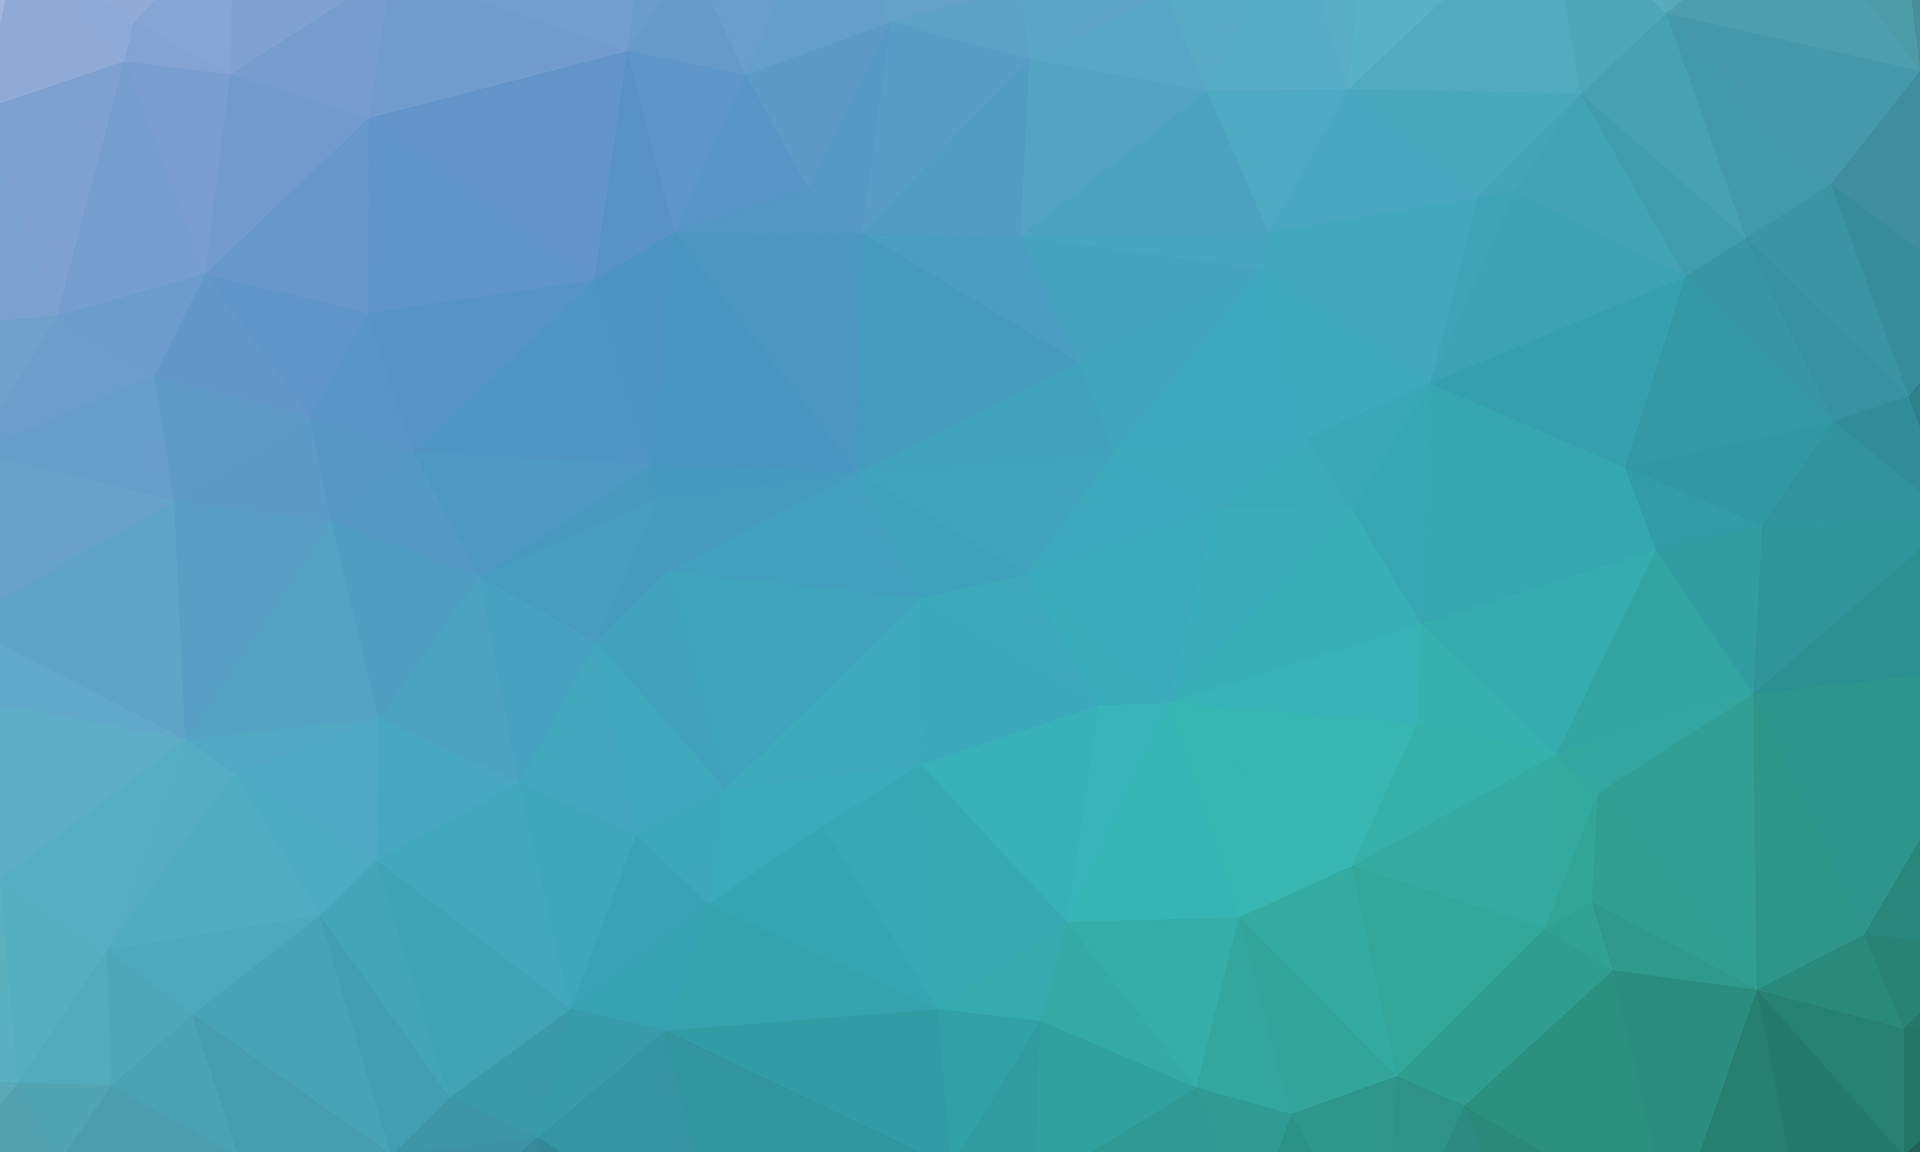
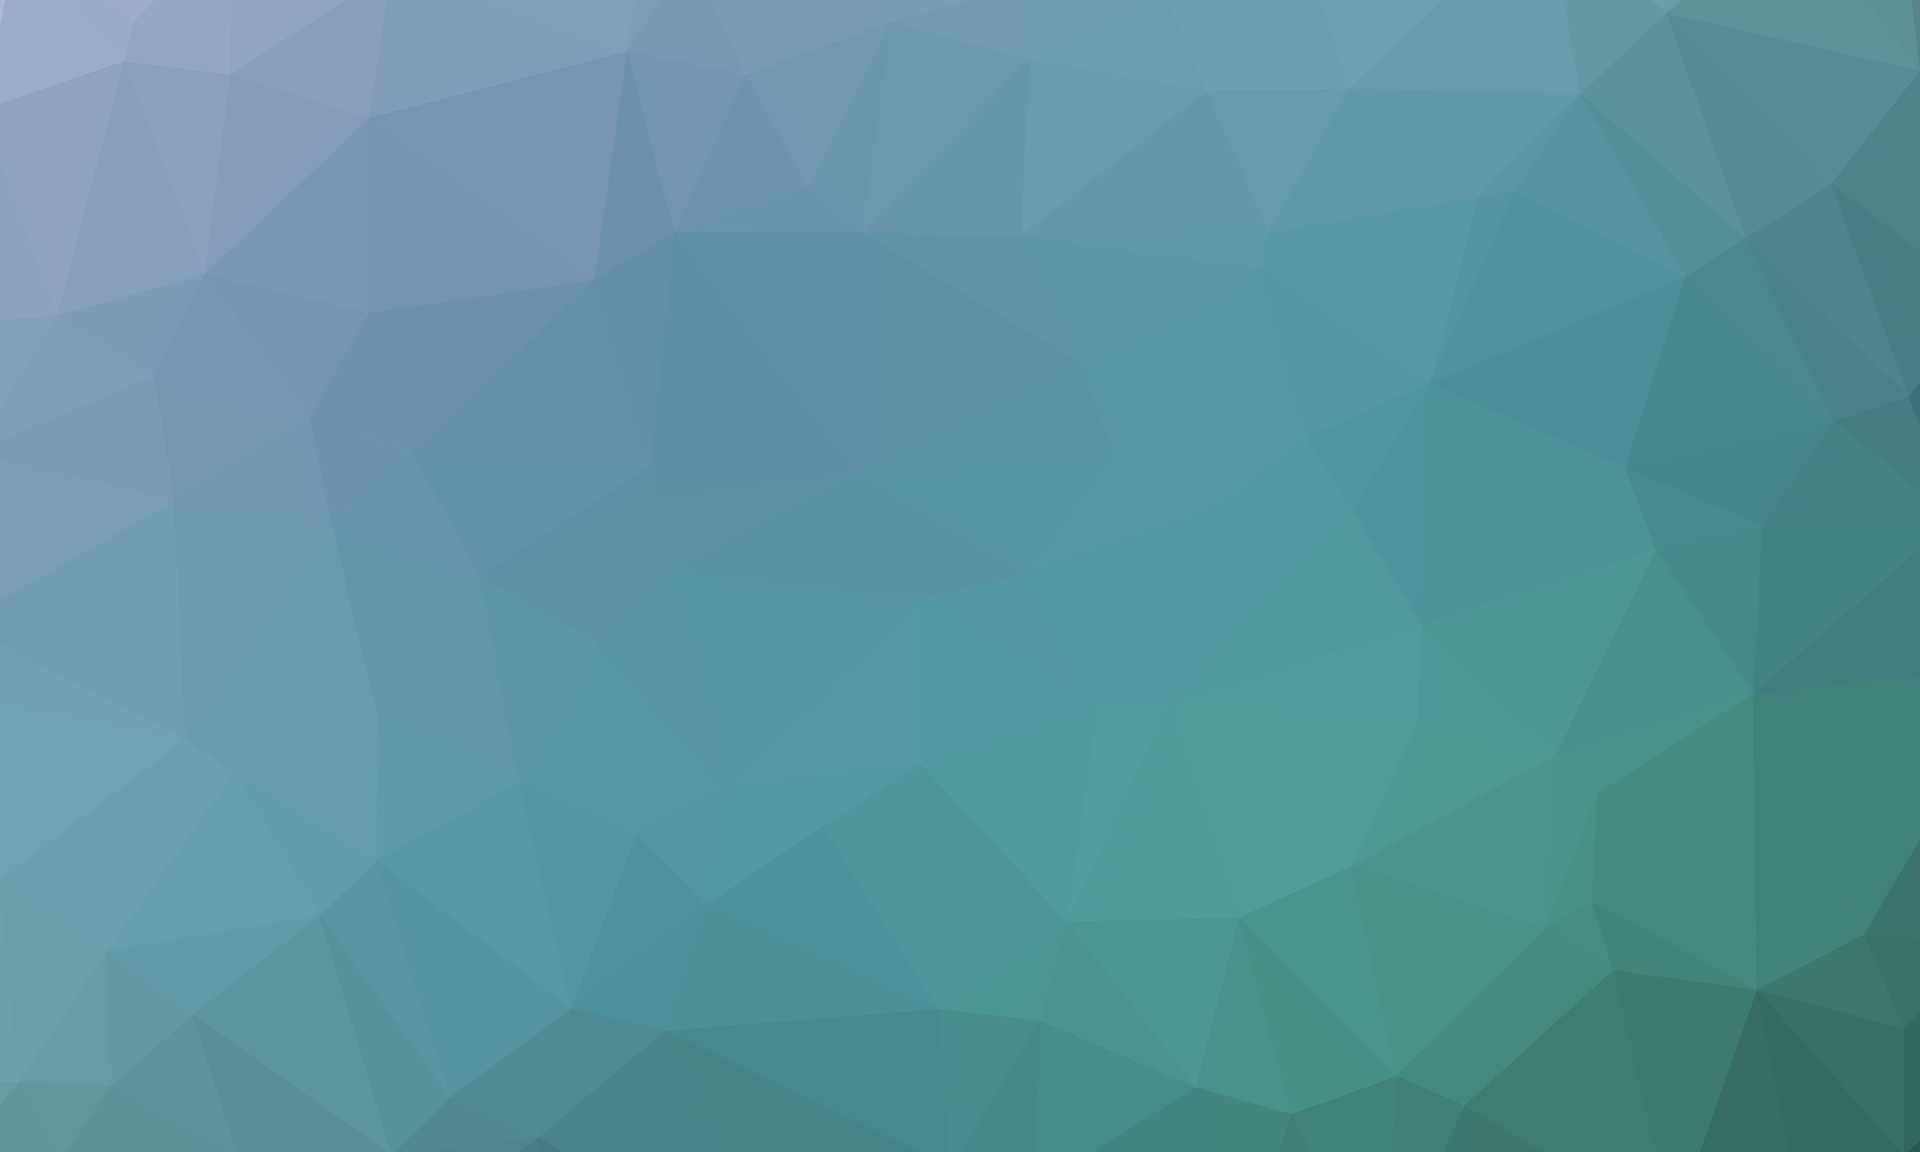
minor changes to apperance

Changed region(s): [[0.375, 0.4375, 0.7188, 0.8125]]

diff --git a/src/components/Plot.js b/src/components/Plot.js
@@ -45,7 +45,7 @@ class Plot extends Component{
     render(){
         return (
             <div className = 'container plot'>
-                <h2><i class="fa fa-area-chart" aria-hidden="true"></i>Plot</h2>
+                <h2><i className="fa fa-area-chart" aria-hidden="true"></i>Plot</h2>
                     <Form
                         onSubmit = {(values) => {
                             this.props.updatePlot(values);
@@ -55,7 +55,7 @@ class Plot extends Component{
                         {formApi => (
                             <form onSubmit =  {formApi.submitForm} >
                                 <div className = 'section properties'>
-                                    <h3><i class="fa fa-sliders" aria-hidden="true"></i>Plot properites</h3>
+                                    <h3><i className="fa fa-sliders" aria-hidden="true"></i>Plot properites</h3>
                                     <div>
                                         <label htmlFor="type">Select type of charts:</label>
                                         <Select
@@ -74,7 +74,7 @@ class Plot extends Component{
                                     </div>
                                 </div>
                                 <div className = 'section buttons'>
-                                    <button className = 'action' type = 'submit'><i class="fa fa-pencil" aria-hidden="true"></i>
+                                    <button className = 'action' type = 'submit'><i className="fa fa-pencil" aria-hidden="true"></i>
 Draw Plot</button>
                                 </div>
                             </form>

diff --git a/src/components/About.js b/src/components/About.js
@@ -51,6 +51,13 @@ const About = function(props) {
                             <a rel="noopener noreferrer" target = '_blank' href="https://www.npmjs.com/package/cubic-spline">cubic-spline</a>
                         </li>
                     </ul>
+                <p>
+                    For plots interpolation, external package was developed. As it was found to be quite useful and universal, it finally was published to npm:
+                </p>
+                   <ul>
+                       <li> <a rel="noopener noreferrer" target = '_blank' href="https://www.npmjs.com/package/2d-bicubic-interpolate">2d-bicubic-interpolate</a></li>
+                   </ul>
+                   
                     
                 
             </div >

diff --git a/src/style/css/App.css b/src/style/css/App.css
@@ -1,5 +1,5 @@
 @import url("https://fonts.googleapis.com/css?family=Maven+Pro");
-@import url("https://fonts.googleapis.com/css?family=Merienda");
+@import url("https://fonts.googleapis.com/css?family=Inknut+Antiqua:700");
 body {
   font-family: 'Maven Pro', sans-serif; }
 
@@ -13,7 +13,11 @@ h1, h2, h3, h4, p, a, label {
   color: gainsboro; }
 
 h1, h2 {
-  font-family: 'Merienda', cursive; }
+  font-family: 'Inknut Antiqua', serif;
+  text-shadow: 2px 2px 8px black; }
+
+h3 {
+  text-shadow: 2px 2px 8px black; }
 
 p {
   text-align: justify;
@@ -147,5 +151,4 @@ input.error {
     width: 100%;
     height: 100vh;
     z-index: 0;
-    filter: hue-rotate(0deg);
-    transition: 1s; }
+    transition: 3s; }

diff --git a/src/style/sass/_commonText.scss b/src/style/sass/_commonText.scss
@@ -1,6 +1,6 @@
 @import '_colors.scss';
 @import url('https://fonts.googleapis.com/css?family=Maven+Pro');
-@import url('https://fonts.googleapis.com/css?family=Merienda');
+@import url('https://fonts.googleapis.com/css?family=Inknut+Antiqua:700');
 
 body {
     font-family: 'Maven Pro', sans-serif;
@@ -20,7 +20,12 @@ h1, h2, h3, h4, p, a, label {
 }
 
 h1, h2 {
-    font-family: 'Merienda', cursive;
+    font-family: 'Inknut Antiqua', serif;
+    text-shadow: 2px 2px 8px rgba(0, 0, 0, 1);
+}
+
+h3 {
+   text-shadow: 2px 2px 8px rgba(0, 0, 0, 1); 
 }
 p {
     text-align: justify;

diff --git a/src/components/Plot3D.js b/src/components/Plot3D.js
@@ -202,8 +202,8 @@ class Plot3D extends Component {
 
         return(
         <div className = 'section plots' id = 'plotContainer'>
-            <h3><i class="fa fa-file-text-o" aria-hidden="true"></i>Plots</h3>
-            {(this.props.plot) ? plotContainers : <p><i class="fa fa-exclamation-circle" aria-hidden="true"></i>{noPlots}</p>}
+            <h3><i className="fa fa-file-text-o" aria-hidden="true"></i>Plots</h3>
+            {(this.props.plot) ? plotContainers : <p><i className="fa fa-exclamation-circle" aria-hidden="true"></i>{noPlots}</p>}
 
 
         </div>

diff --git a/src/style/css/Header.css b/src/style/css/Header.css
@@ -32,7 +32,8 @@
       display: block;
       width: 100%;
       flex: 1;
-      padding: 0.5rem 0; }
+      padding: 0.5rem 0;
+      text-transform: uppercase; }
       .header nav a:hover {
         background-color: rgba(0, 0, 0, 0.35); }
       @media screen and (min-width: 550px) {

diff --git a/src/style/sass/Welcome.scss b/src/style/sass/Welcome.scss
@@ -3,7 +3,6 @@
 div.welcome {
 
     div.slider {
-
         padding: 0 30px;
         @media screen and(max-width: $small) {
             padding: 0 1px;
@@ -12,7 +11,6 @@ div.welcome {
              padding: 0 200px;
         }
     }
-    
 }
 
 div.section.slide {

diff --git a/src/style/sass/Header.scss b/src/style/sass/Header.scss
@@ -46,6 +46,8 @@
             width: 100%;
             flex: 1;
             padding: 0.5rem 0;
+            text-transform: uppercase;
+            
             &:hover {
                 background-color: $bckgColor;
             }

diff --git a/src/style/sass/App.scss b/src/style/sass/App.scss
@@ -25,8 +25,7 @@
         width: 100%;
         height: 100vh;
         z-index: 0;
-        filter: hue-rotate(0deg);
-        transition:  1s;
+        transition:  3s;
     }
 }
 
